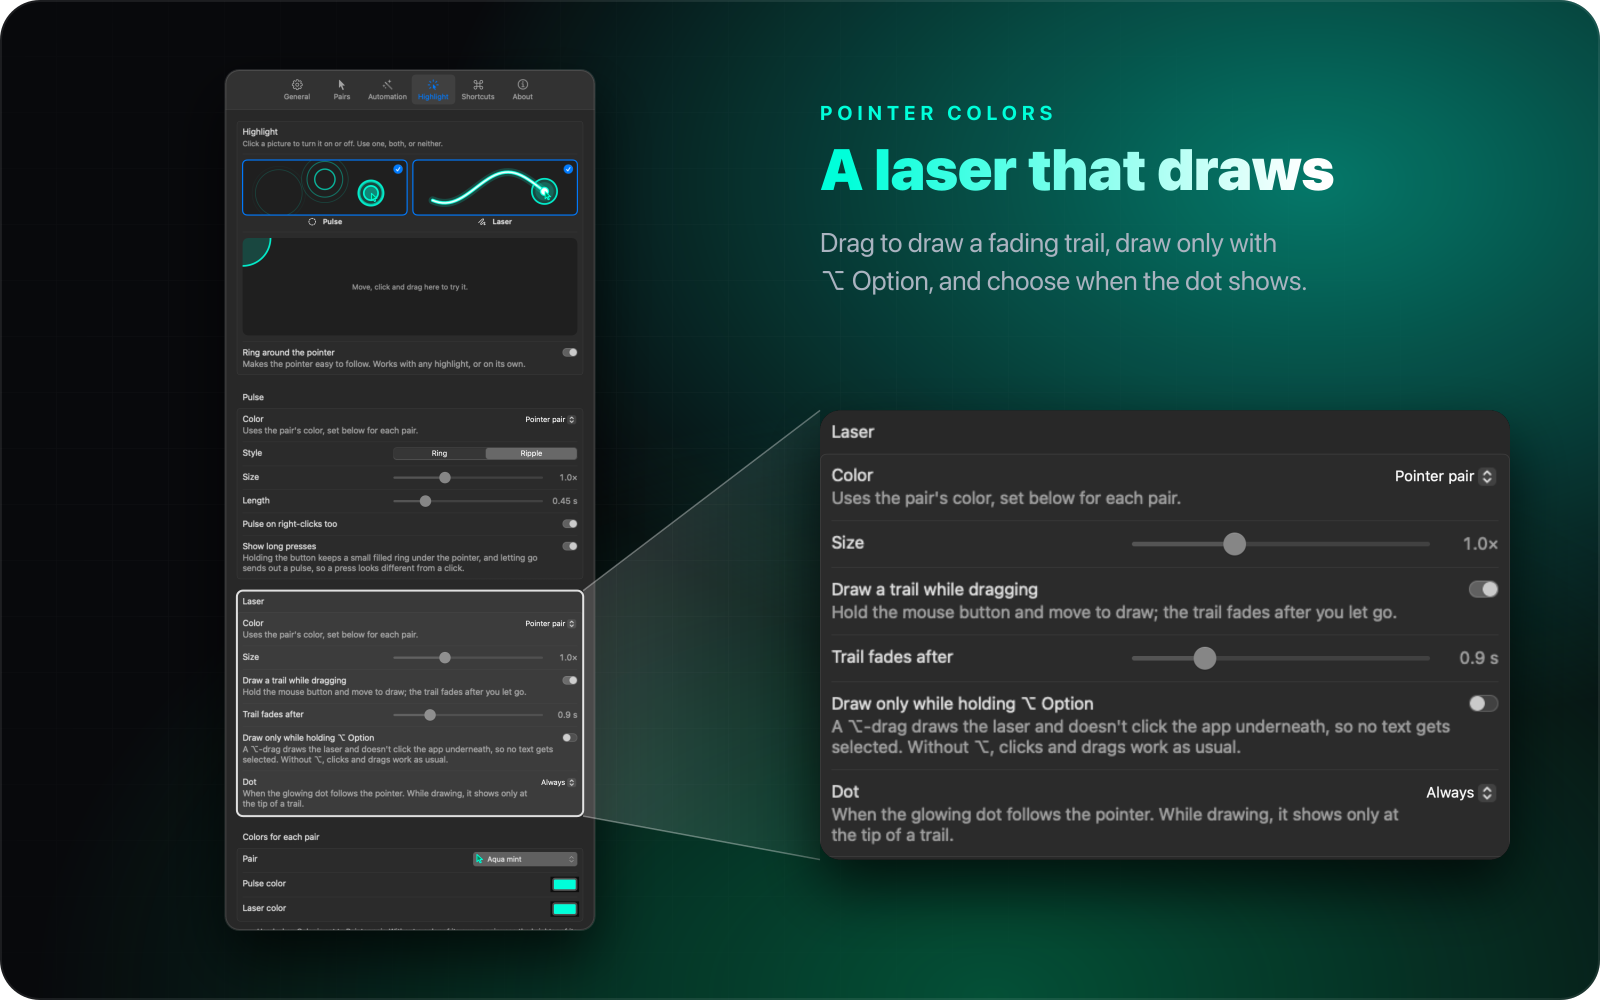
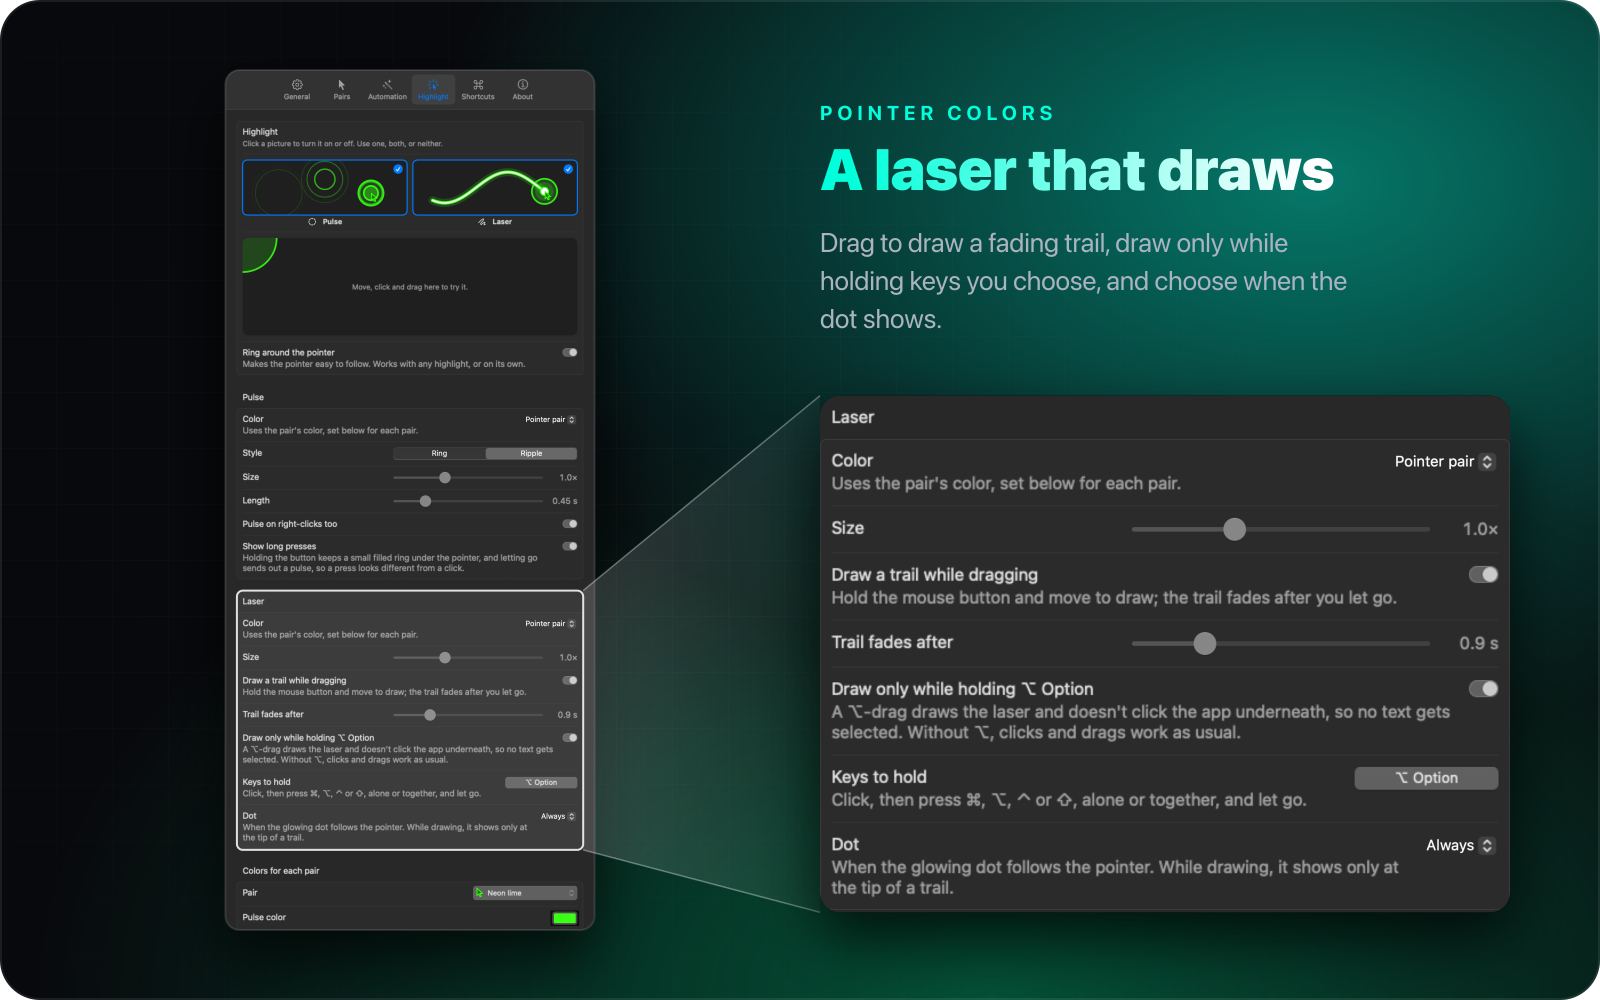
Version 0.4.4, with its changelog and the laser's new screenshot

diff --git a/mac/Sources/PointerColors/Model/SettingsBackup.swift b/mac/Sources/PointerColors/Model/SettingsBackup.swift
@@ -2,7 +2,7 @@ import Foundation
 
 /// Every app preference in one file: pairs, automation, highlight, shortcuts and appearance.
 /// Reads and writes the app's own UserDefaults domain, leaving out what macOS keeps there for
-/// windows and panels and what only describes this Mac's update checks. Open at login, which
+/// windows and panels and what only describes this Mac's update checks. Launch at login, which
 /// macOS keeps instead of the app, goes in the file next to them.
 struct SettingsBackup {
     private let defaults: UserDefaults
@@ -33,7 +33,7 @@ struct SettingsBackup {
     }
 
     /// Replaces every backed-up preference with the file's. Takes effect after a relaunch.
-    /// Returns the file's Open at login for the caller to apply; nil in files from before it was saved.
+    /// Returns the file's Launch at login for the caller to apply; nil in files from before it was saved.
     @discardableResult
     func restore(from data: Data) throws -> Bool? {
         let file = try PropertyListSerialization.propertyList(from: data, format: nil) as? [String: Any]

diff --git a/CHANGELOG.md b/CHANGELOG.md
@@ -3,6 +3,11 @@
 What changed in each release of the Pointer Colors Mac app. Downloads are on the
 [releases page](https://github.com/mustafaabobakr/macos-pointer-colors/releases).
 
+## 0.4.4 — 2026-10-26
+
+- **Choose the keys that draw the laser.** **Preferences › Highlight › Laser › Keys to hold** sets which keys **Draw only while holding** waits for: ⌘, ⌥, ⌃ or ⇧, alone or together. Click it, press the keys, and let go. It stays ⌥ Option unless you change it.
+- **Launch at login is backed up.** **Export all…** now saves **Launch at login** with the rest of your settings, and **Import…** puts it back.
+
 ## 0.4.3 — 2026-10-26
 
 - **The laser and the ring keep up across displays.** Moving to another display, the laser dot and the ring around the pointer no longer lag behind. A laser trail that crosses to a display with another pair carries on in that pair's colors.
